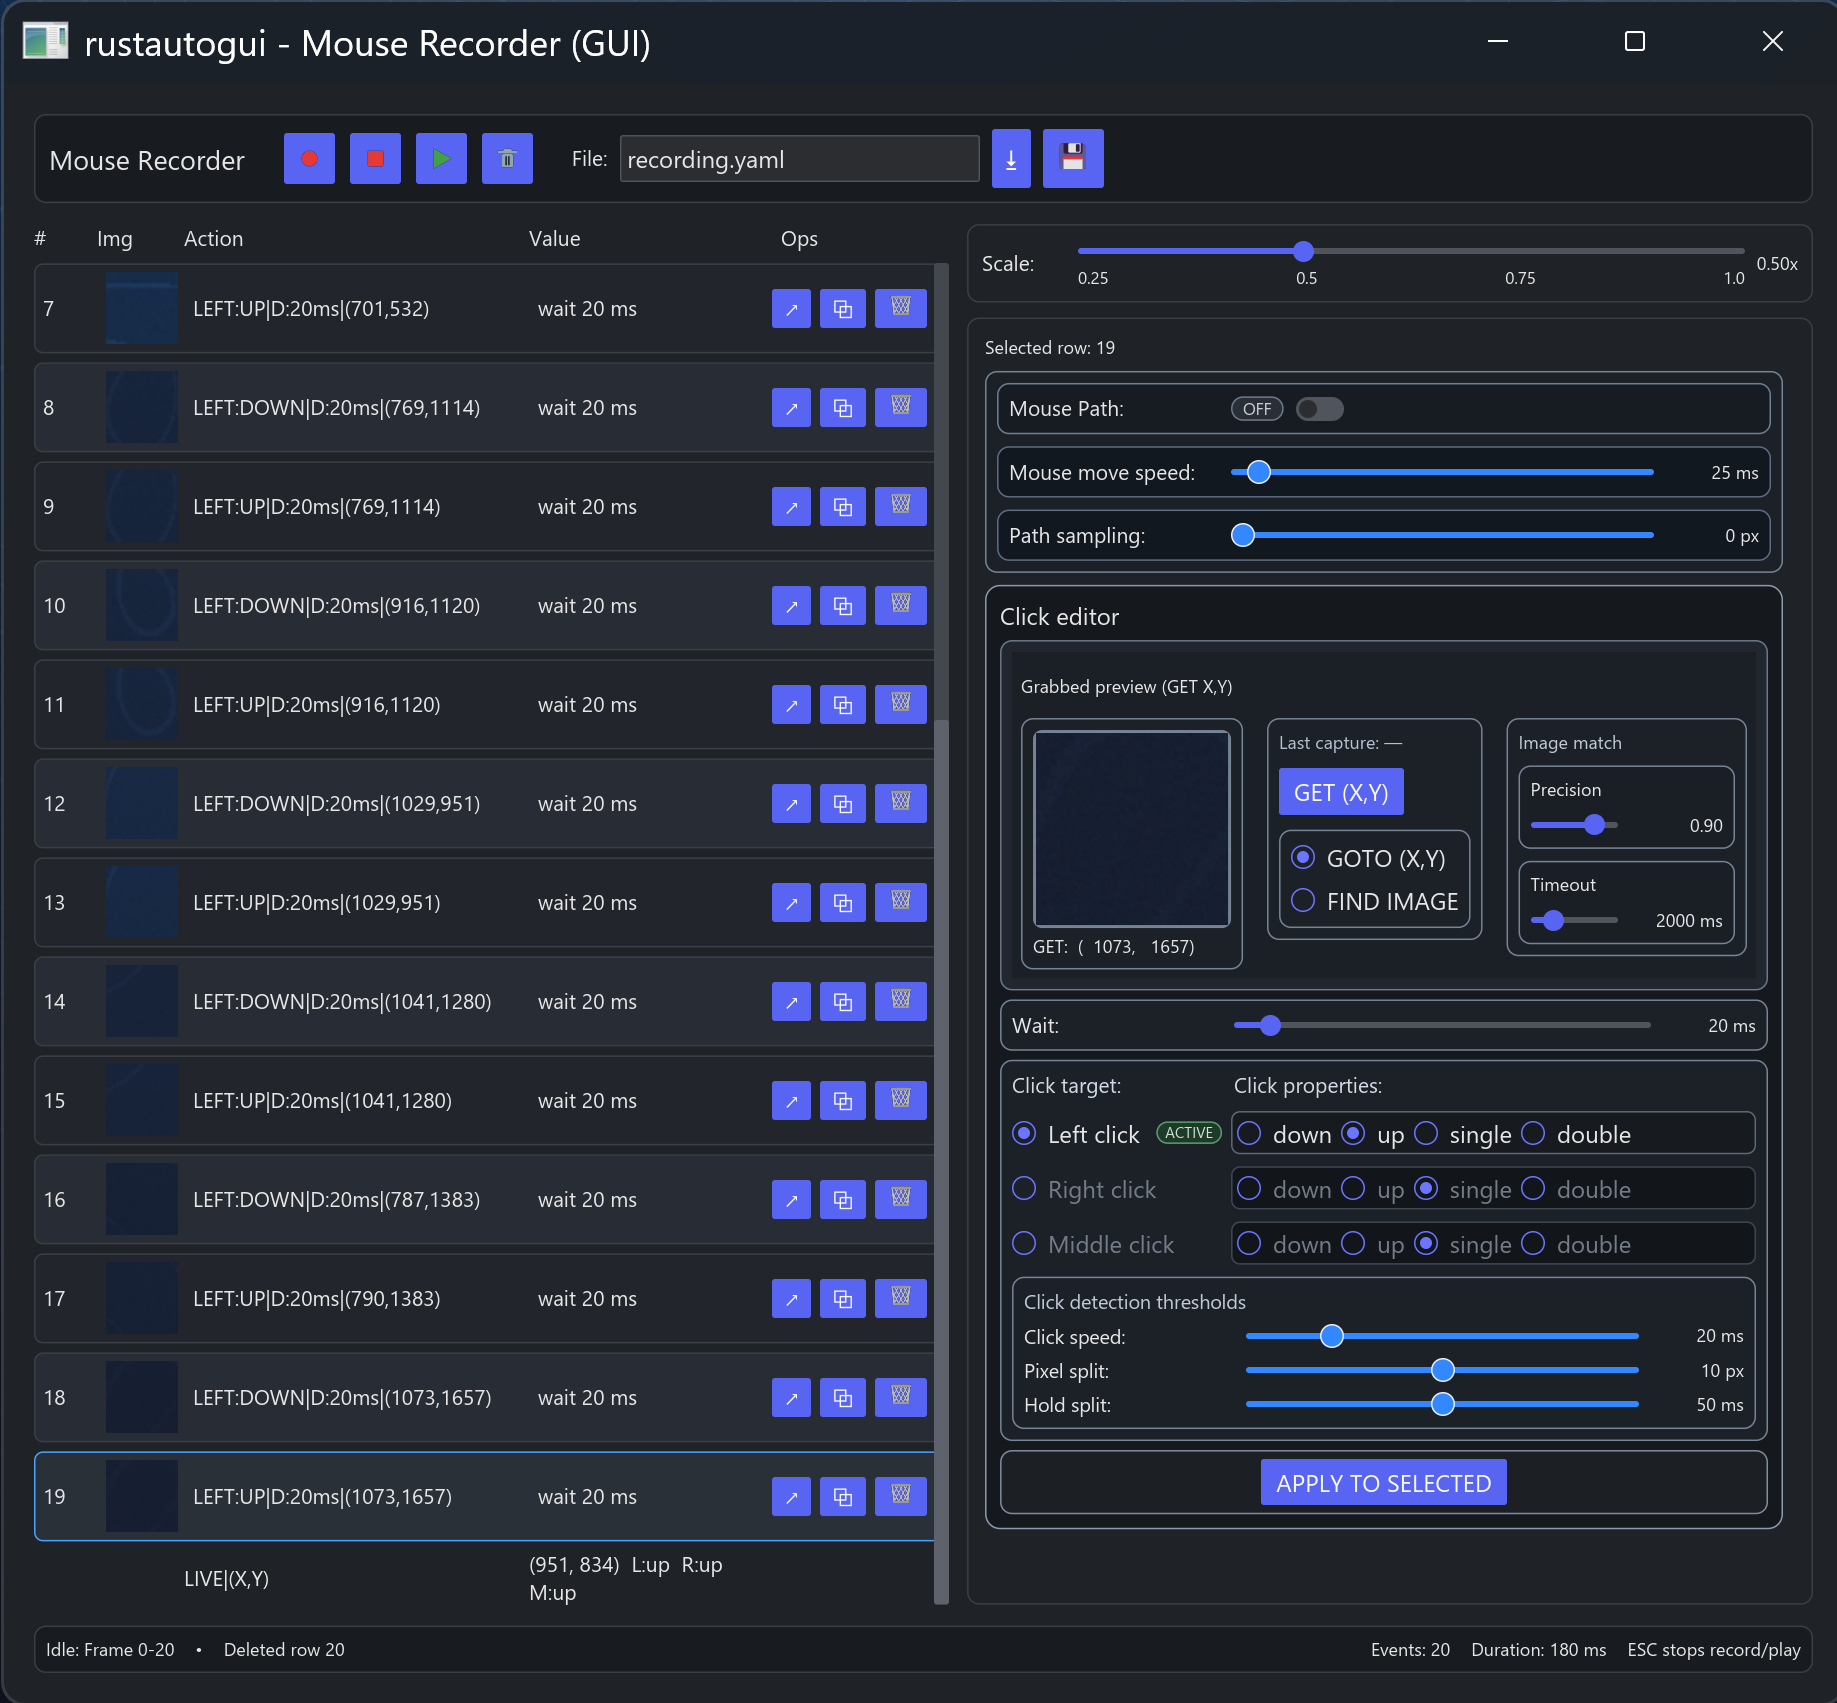
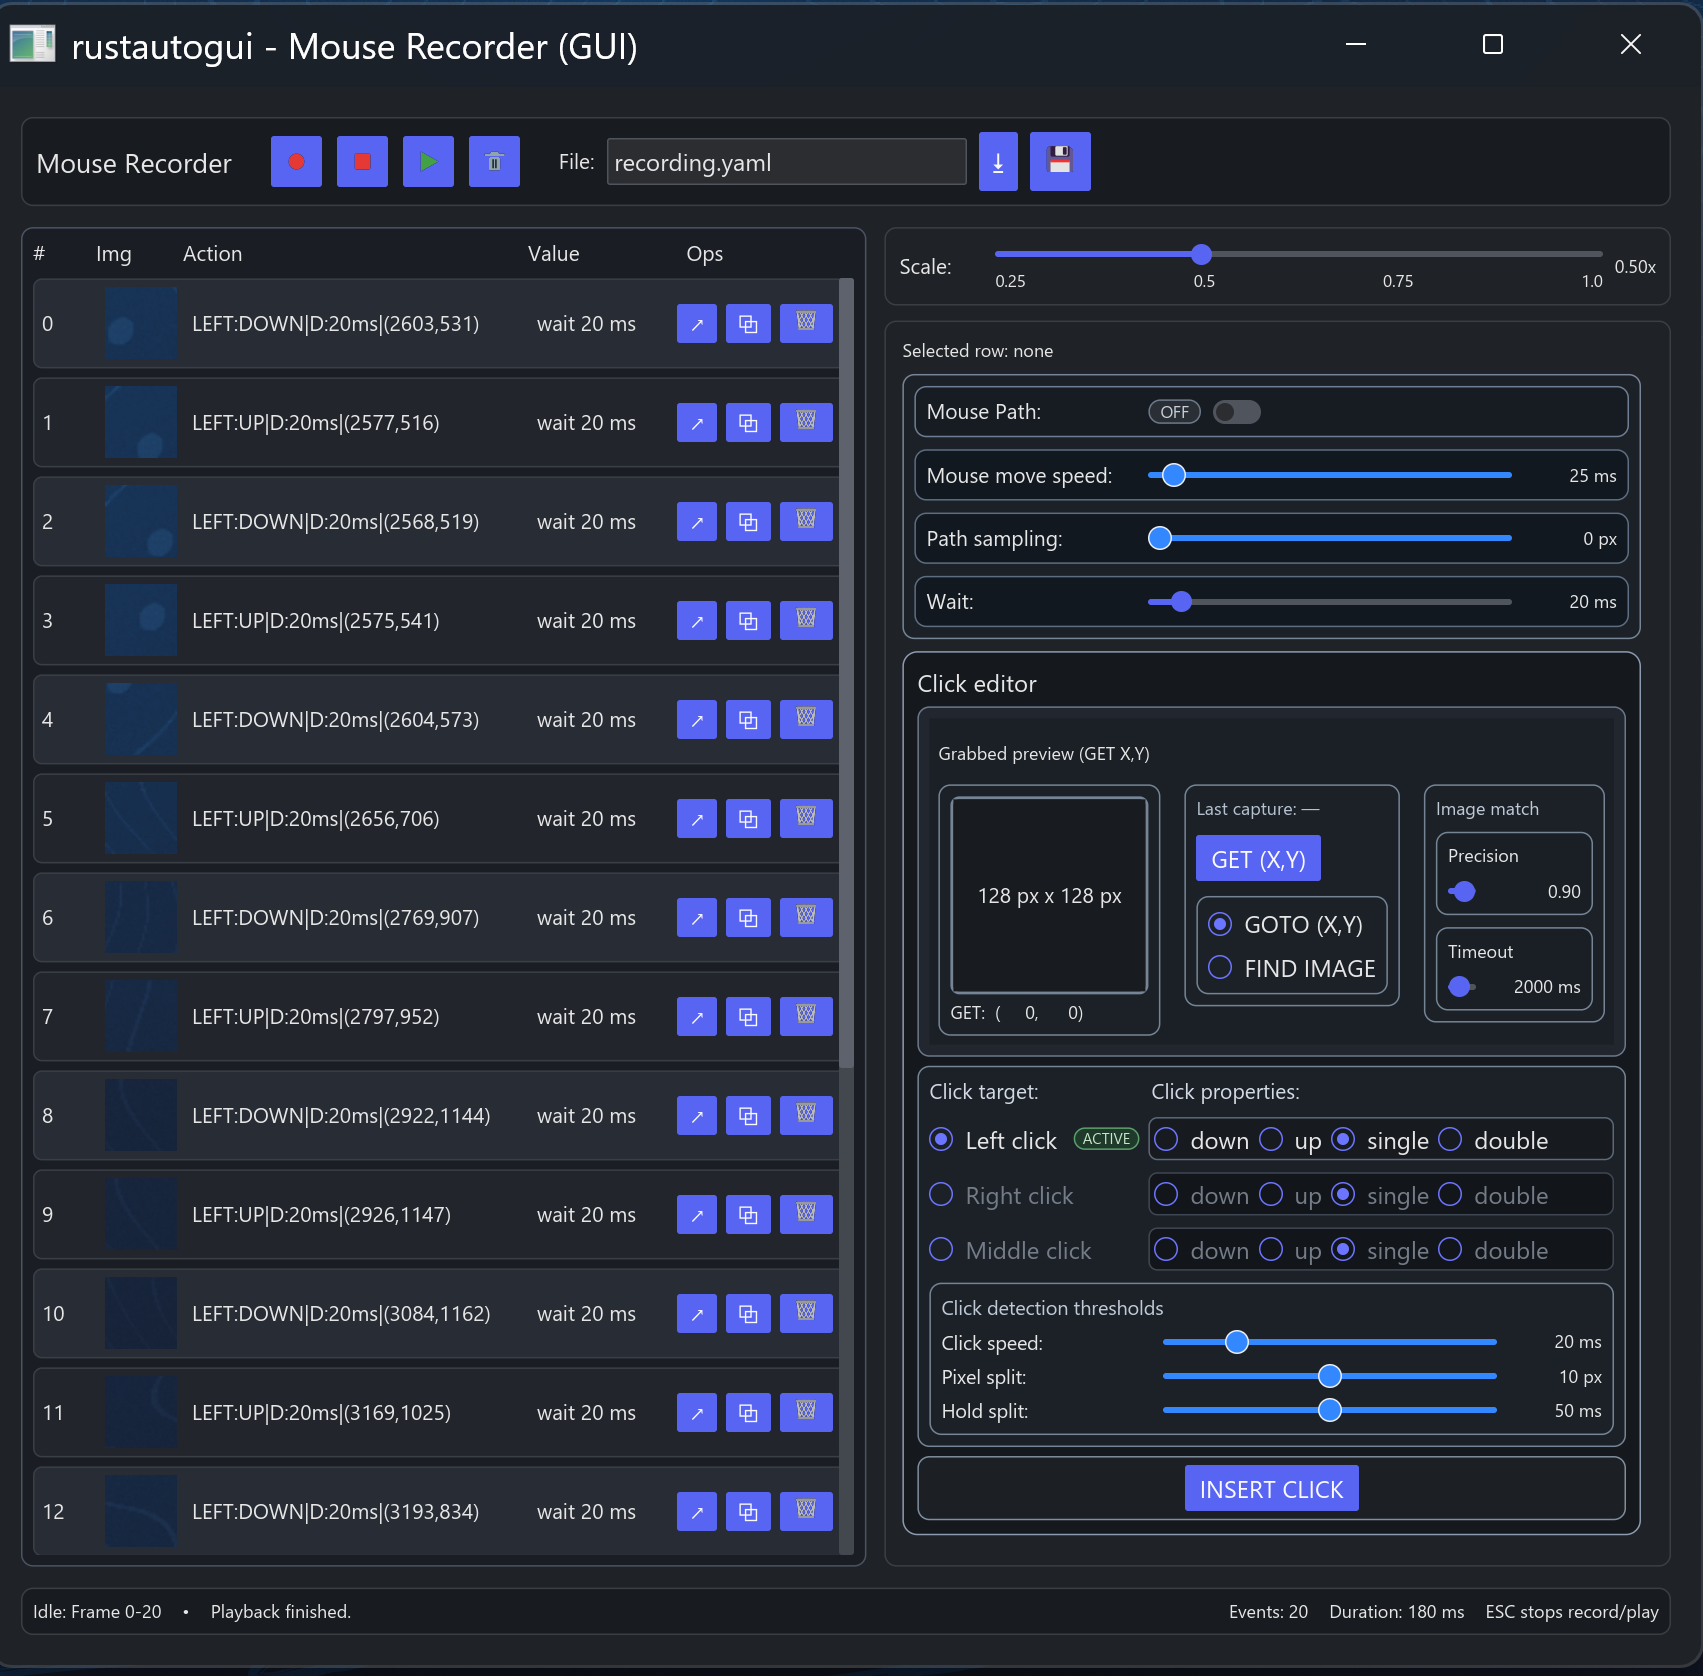
added border frame todo

diff --git a/src/view/main_view.rs b/src/view/main_view.rs
@@ -352,9 +352,25 @@ impl App {
             .height(Length::Fill)
             .width(Length::Fill);
 
-        let actions_panel = iced::widget::column![table_header, list]
-            .spacing(8)
-            .width(Length::FillPortion(3));
+        let actions_panel = container(
+            iced::widget::column![table_header, list]
+                .spacing(8)
+                .width(Length::Fill),
+        )
+        .padding(8)
+        .width(Length::FillPortion(3))
+        .height(Length::Fill)
+        .style(|_| iced::widget::container::Style {
+            text_color: None,
+            background: Some(Background::Color(Color::from_rgb8(0x1a, 0x1e, 0x24))),
+            border: Border {
+                color: Color::from_rgb8(0x4a, 0x54, 0x62),
+                width: 1.0,
+                radius: 8.0.into(),
+            },
+            shadow: Shadow::default(),
+            snap: false,
+        });
 
         let right_panel = iced::widget::column![
             self.view_scale_panel(),
